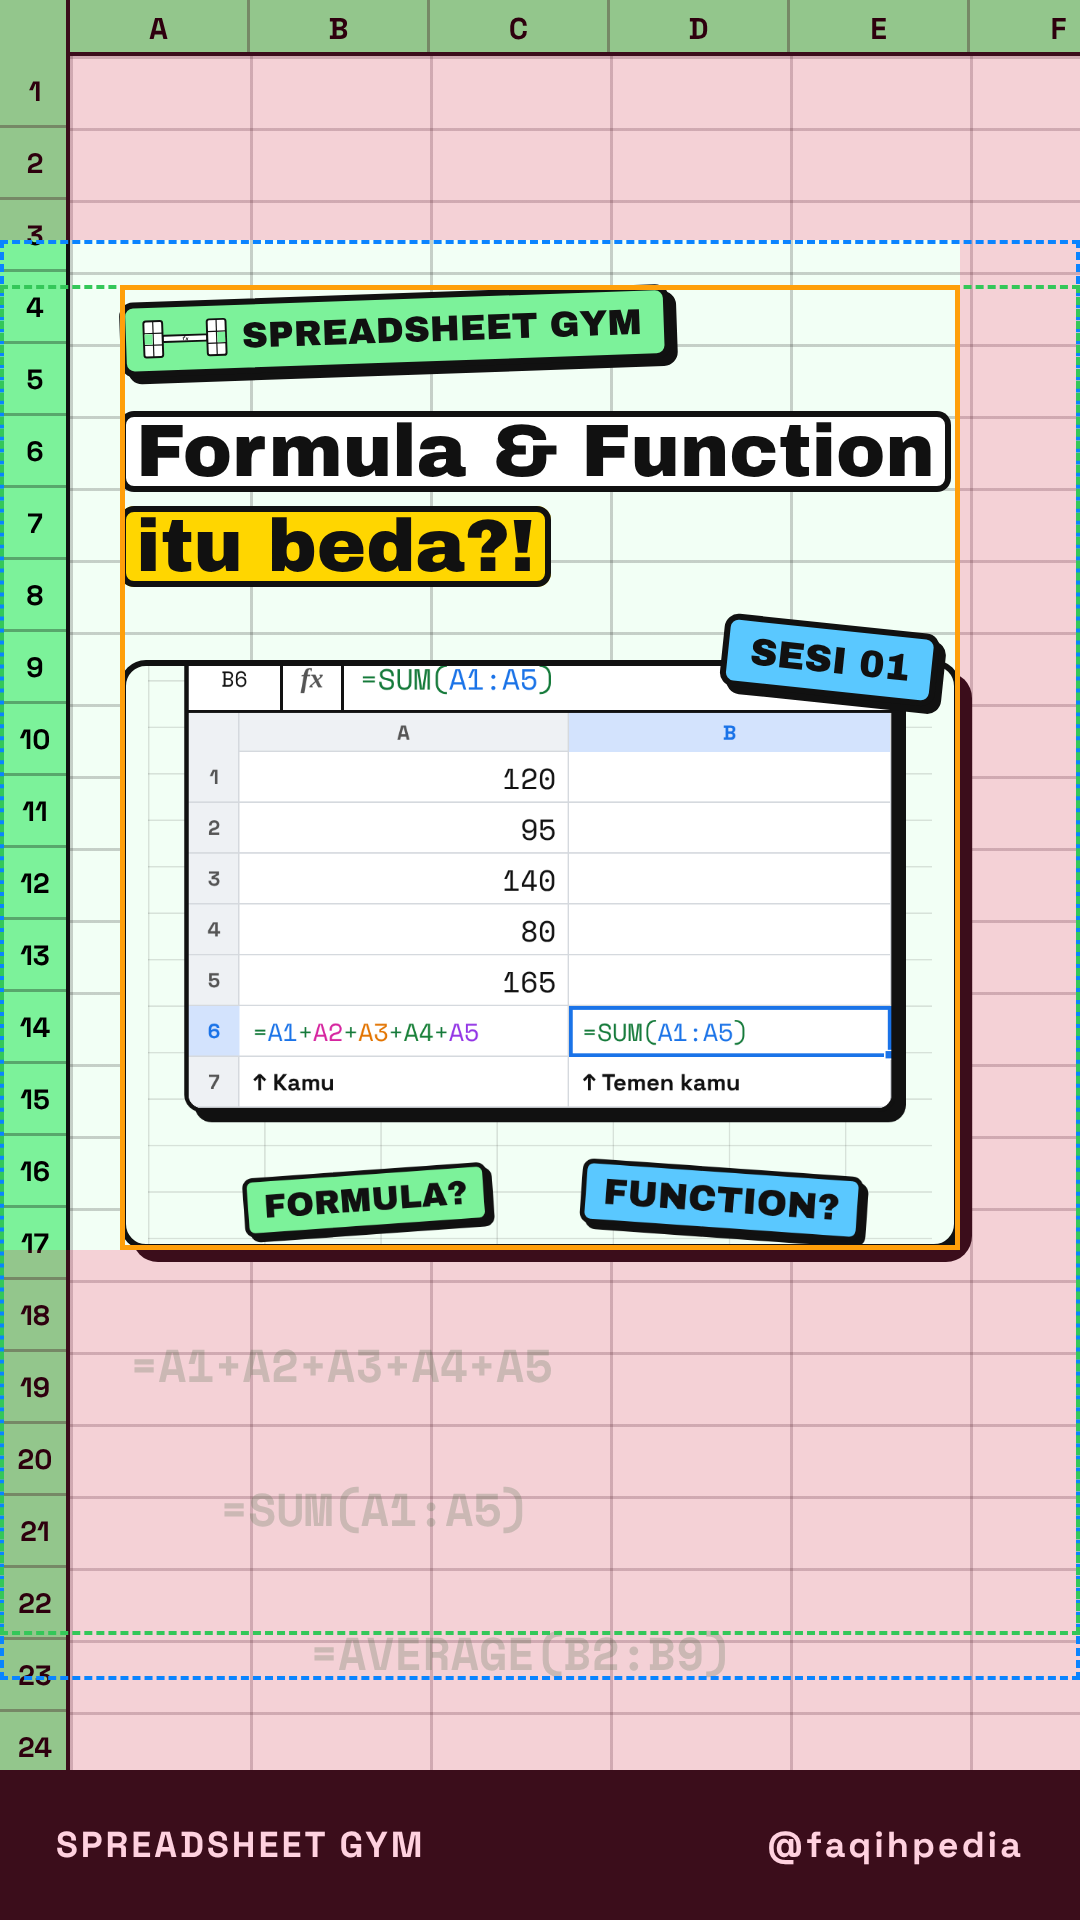
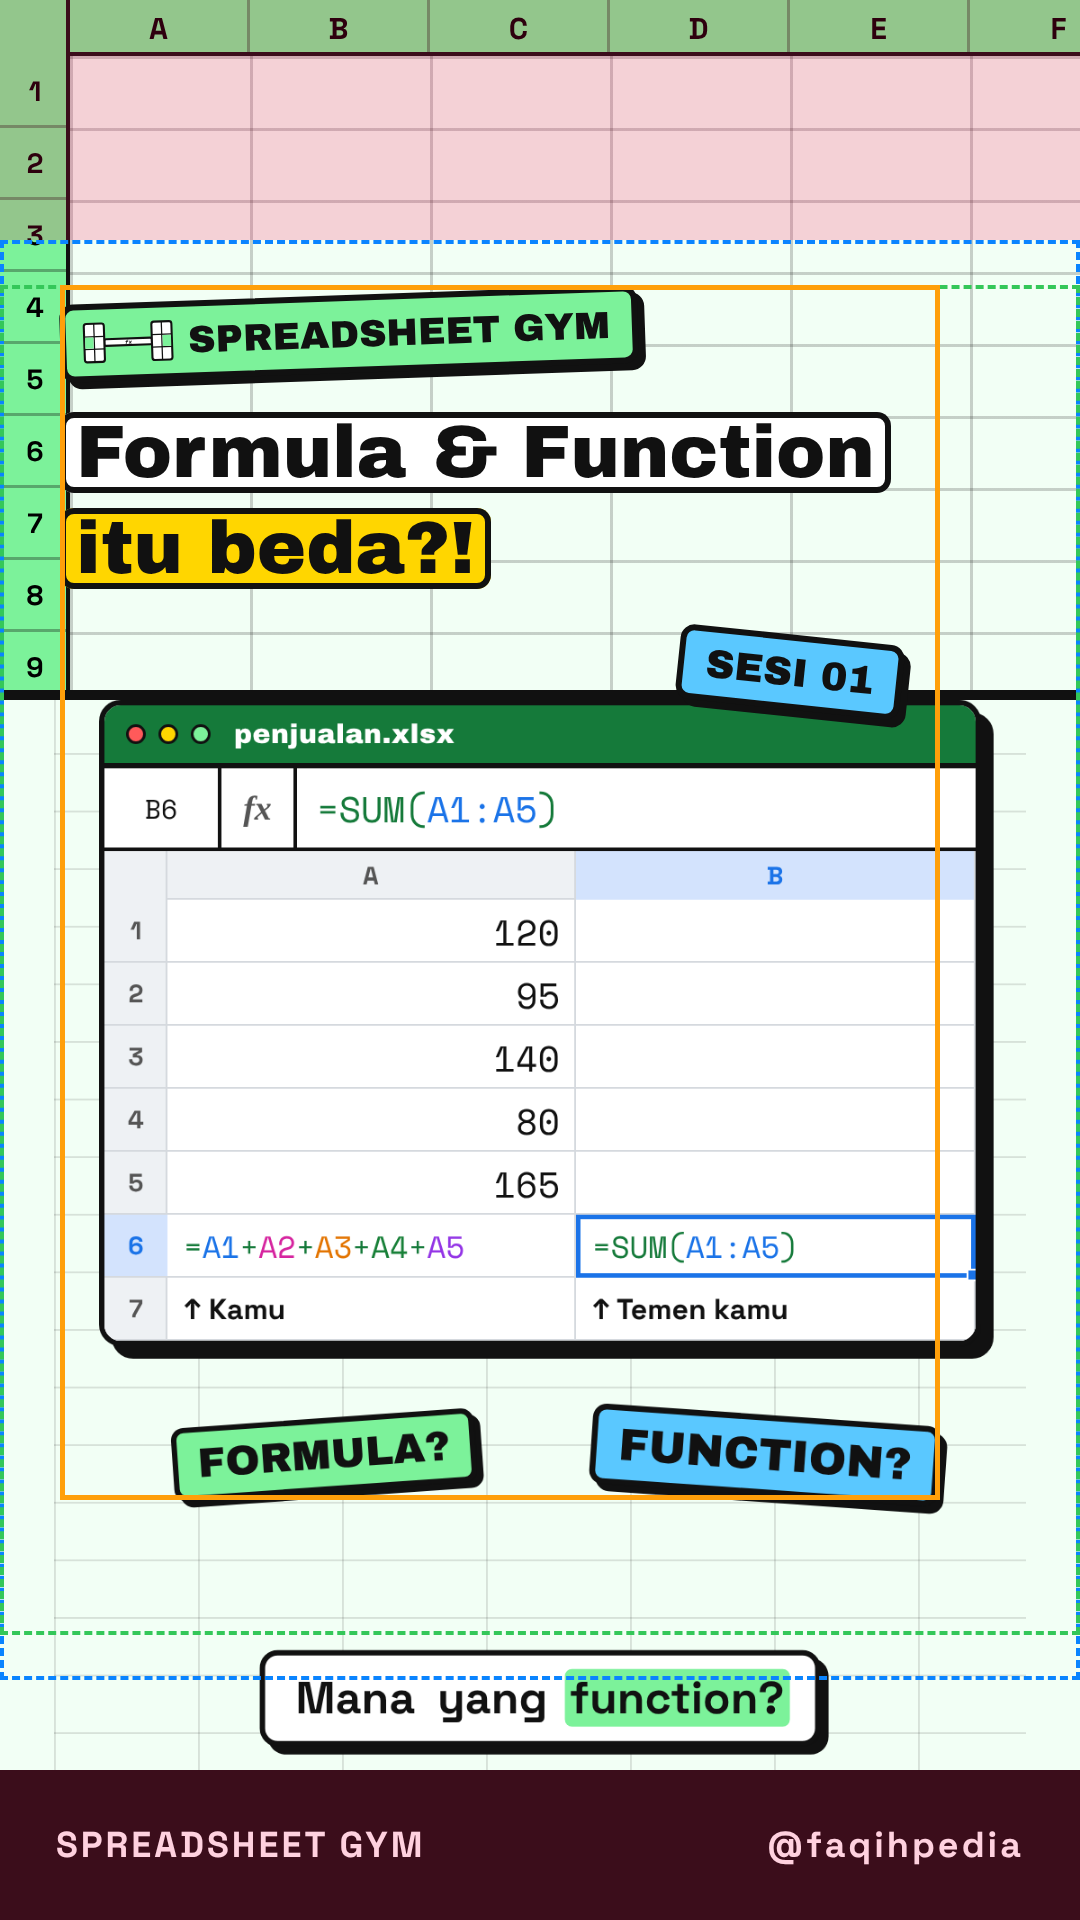
Spreadsheet Gym thumbnail: TRIMS cover geometry and SAFE box (60-940, 285-1500)
Claude-Session: https://claude.ai/code/session_018xRo3ZmD22FHxxpmWKTbyx

diff --git a/spreadsheet-gym-formula-vs-function/src/Thumbnail.tsx b/spreadsheet-gym-formula-vs-function/src/Thumbnail.tsx
@@ -2,33 +2,33 @@ import React from 'react';
 import { AbsoluteFill, Img, staticFile } from 'remotion';
 import { At, Box, Sticker } from './components';
 import { Barbell } from './scenes';
-import { BORDER, BODY, C, EPISODE_LABEL, HEAD, shadow } from './theme';
+import { BORDER, BODY, C, EPISODE_LABEL, HEAD } from './theme';
 
 /*
- * Cover for TikTok, IG Reels and the IG feed.
- *
- * Safe area (same as faqihpedia-askmaps/src/Thumbnail.tsx): label, title and
- * key visual stay inside the shared safe box x 120-960, y 285-1250. Outside it
- * there is only decoration, because TikTok's UI covers the top 240, the bottom
- * 670 and the right 120 px, and IG crops to 3:4 (grid) and 4:5 (feed).
- *
- * Inside the box it follows the TRIMS cover rules (trims-eps2-claude):
- * segment label + logo tilted -2°, a short title on white/yellow marks,
- * a tilted card on the edge of a real video frame, and the black series strip.
- * No face in this segment. The frame is the warm-up question (18.1 s: both
- * formulas, "Formula?" / "Function?"), so the cover never gives the answer away.
+ * Cover, same rules and geometry as the TRIMS cover (trims-eps2-claude/src/Thumbnail.tsx
+ * on claude/awesome-hawking-b9e871), which already respects the safe area:
+ *  - SAFE box x 60-940, y 285-1500 (trims-eps2-claude/src/theme.ts): label, title,
+ *    card and the key part of the photo panel stay inside it
+ *  - segment motif on top, segment label + logo tilted -2°, a short title (5 words)
+ *    on white/yellow marks, top 405
+ *  - a real frame of the video across the bottom half (panel from y 690 to the strip);
+ *    no face in this segment, so it's the warm-up question at 18.1 s (sheet with both
+ *    formulas + "Formula?" / "Function?"). The cover never gives the answer away.
+ *  - a tilted card on the panel edge, black series strip at the bottom
  */
-export const SAFE = { x: 120, y: 285, w: 840, h: 965 };
+export const SAFE = { left: 60, right: 940, top: 285, bottom: 1500 };
 
 const mark: React.CSSProperties = {
   background: C.white, boxShadow: `inset 0 0 0 6px ${C.ink}`, borderRadius: 14, padding: '0 16px',
   boxDecorationBreak: 'clone', WebkitBoxDecorationBreak: 'clone',
 };
 
-// key visual: the sheet + question stickers of the warm-up frame (source y 690-1475, x 40-1040)
-const PANEL = { x: SAFE.x, y: 660, w: SAFE.w, h: SAFE.y + SAFE.h - 660 };
-const SRC = { x: 40, y: 690, w: 1000, h: 785 };
-const K = Math.min((PANEL.w - 40) / SRC.w, (PANEL.h - 20) / SRC.h);
+const PHOTO_TOP = 690;
+const STRIP = 150;
+const K = 0.9; // frame scale
+// frame rows: sheet window starts ~585, question stickers end ~1470. Show from 581 so the
+// stickers end at 690 + (1470 - 581) * 0.9 = 1490, inside SAFE.bottom.
+const FRAME_Y = 581;
 
 /** spreadsheet motif: header row with column letters, row numbers, cell grid (decoration) */
 const SheetMotif: React.FC = () => {
@@ -53,7 +53,7 @@ const SheetMotif: React.FC = () => {
         </div>
       ))}
       <div style={{ position: 'absolute', left: 0, top: 0, bottom: 0, width: numW, background: C.green, borderRight: `4px solid ${C.ink}` }} />
-      {Array.from({ length: 26 }, (_, r) => (
+      {Array.from({ length: 9 }, (_, r) => (
         <div key={r} style={{ position: 'absolute', left: 0, top: headH + r * rowH, width: numW, height: rowH, display: 'flex', alignItems: 'center', justifyContent: 'center', fontFamily: BODY, fontWeight: 700, fontSize: 28, borderBottom: `3px solid ${C.ink}55` }}>
           {r + 1}
         </div>
@@ -62,15 +62,14 @@ const SheetMotif: React.FC = () => {
   );
 };
 
-/** overlays for checking the layout: platform UI (red), IG crops (blue 3:4, green 4:5), safe box (orange) */
+/** overlays for checking: platform UI (red), IG crops (blue 3:4, green 4:5), SAFE box (orange) */
 const Guides: React.FC = () => (
   <AbsoluteFill style={{ pointerEvents: 'none' }}>
     <div style={{ position: 'absolute', left: 0, right: 0, top: 0, height: 240, background: 'rgba(255,0,80,0.18)' }} />
-    <div style={{ position: 'absolute', left: 0, right: 0, bottom: 0, height: 670, background: 'rgba(255,0,80,0.18)' }} />
-    <div style={{ position: 'absolute', right: 0, top: 240, bottom: 670, width: 120, background: 'rgba(255,0,80,0.18)' }} />
+    <div style={{ position: 'absolute', left: 0, right: 0, bottom: 0, height: STRIP, background: 'rgba(255,0,80,0.18)' }} />
     <div style={{ position: 'absolute', left: 0, right: 0, top: 240, height: 1440, border: '4px dashed #0A84FF', boxSizing: 'border-box' }} />
     <div style={{ position: 'absolute', left: 0, right: 0, top: 285, height: 1350, border: '4px dashed #34C759', boxSizing: 'border-box' }} />
-    <div style={{ position: 'absolute', left: SAFE.x, top: SAFE.y, width: SAFE.w, height: SAFE.h, border: '5px solid #FF9F0A', boxSizing: 'border-box' }} />
+    <div style={{ position: 'absolute', left: SAFE.left, top: SAFE.top, width: SAFE.right - SAFE.left, height: SAFE.bottom - SAFE.top, border: '5px solid #FF9F0A', boxSizing: 'border-box' }} />
   </AbsoluteFill>
 );
 
@@ -78,44 +77,34 @@ export const Thumbnail: React.FC<{ guides?: boolean }> = ({ guides = false }) =>
   <AbsoluteFill style={{ background: C.bg, overflow: 'hidden' }}>
     <SheetMotif />
 
-    {/* decoration below the safe box: faded formulas in the grid */}
-    {[['=A1+A2+A3+A4+A5', 1330], ['=SUM(A1:A5)', 1474], ['=AVERAGE(B2:B9)', 1618]].map(([fx, y], i) => (
-      <div key={i} style={{ position: 'absolute', left: 130 + i * 90, top: y as number, fontFamily: '"Space Mono", monospace', fontWeight: 700, fontSize: 46, color: C.formula, opacity: 0.22 }}>
-        {fx}
-      </div>
-    ))}
+    {/* real video frame, bleeding off the bottom */}
+    <div style={{ position: 'absolute', left: 0, right: 0, top: PHOTO_TOP, bottom: 0, overflow: 'hidden', borderTop: `${BORDER + 4}px solid ${C.ink}`, background: C.bg }}>
+      <Img src={staticFile('thumb-frame.png')} style={{ position: 'absolute', left: (1080 - 1080 * K) / 2, top: -FRAME_Y * K, width: 1080 * K, height: 1920 * K }} />
+    </div>
 
-    {/* segment label */}
-    <div style={{ position: 'absolute', left: SAFE.x, top: SAFE.y + 18, transform: 'rotate(-2deg)', transformOrigin: 'left center' }}>
-      <Box bg={C.green} pad="8px 22px 8px 14px" radius={14} sh={7} style={{ display: 'flex', alignItems: 'center', gap: 12, fontFamily: HEAD, fontSize: 36, whiteSpace: 'nowrap' }}>
-        <Barbell w={90} />
+    {/* segment label, top-left */}
+    <div style={{ position: 'absolute', left: SAFE.left, top: SAFE.top + 10, transform: 'rotate(-2deg)' }}>
+      <Box bg={C.green} pad="8px 22px 8px 14px" radius={14} sh={7} style={{ display: 'flex', alignItems: 'center', gap: 12, fontFamily: HEAD, fontSize: 38, whiteSpace: 'nowrap' }}>
+        <Barbell w={96} />
         SPREADSHEET GYM
       </Box>
     </div>
 
-    {/* title: 5 words, fits the 840 px box */}
-    <div style={{ position: 'absolute', left: SAFE.x, top: 405, width: SAFE.w, fontFamily: HEAD, fontSize: 74, lineHeight: 1.28, color: C.ink, whiteSpace: 'nowrap' }}>
+    {/* title: 5 words, right edge inside SAFE.right */}
+    <div style={{ position: 'absolute', left: SAFE.left, top: 405, fontFamily: HEAD, fontSize: 74, lineHeight: 1.3, color: C.ink, whiteSpace: 'nowrap' }}>
       <span style={mark}>Formula &amp; Function</span>
       <br />
       <span style={{ ...mark, background: C.yellow }}>itu beda?!</span>
     </div>
 
-    {/* key visual: real frame of the warm-up question */}
-    <div style={{ position: 'absolute', left: PANEL.x, top: PANEL.y, width: PANEL.w, height: PANEL.h, overflow: 'hidden', background: C.bg, border: `${BORDER}px solid ${C.ink}`, borderRadius: 26, boxShadow: shadow(12), boxSizing: 'border-box' }}>
-      <Img
-        src={staticFile('thumb-frame.png')}
-        style={{ position: 'absolute', left: (PANEL.w - SRC.w * K) / 2 - SRC.x * K - BORDER, top: 10 - SRC.y * K - BORDER, width: 1080 * K, height: 1920 * K }}
-      />
-    </div>
-
     {/* card on the panel edge */}
-    <At x={830} y={PANEL.y} r={6}>
-      <Sticker bg={C.blue} size={38}>{EPISODE_LABEL}</Sticker>
+    <At x={790} y={672} r={6}>
+      <Sticker bg={C.blue} size={40}>{EPISODE_LABEL}</Sticker>
     </At>
 
-    {/* series strip (decoration, under the platform UI) */}
+    {/* series strip */}
     <div style={{
-      position: 'absolute', left: 0, right: 0, bottom: 0, height: 150, background: C.ink, color: C.white,
+      position: 'absolute', left: 0, right: 0, bottom: 0, height: STRIP, background: C.ink, color: C.white,
       display: 'flex', alignItems: 'center', justifyContent: 'space-between', padding: '0 56px',
       fontFamily: BODY, fontWeight: 700, fontSize: 36, letterSpacing: 3,
     }}>

diff --git a/README.md b/README.md
@@ -113,6 +113,6 @@ python3 scripts/whistle.py public/sfx/whistle.wav                   # optional: 
 npm run render -- --browser-executable=<chrome-headless-shell>
 ```
 
-The cover is `thumbnail.png` (the `Thumbnail` still in `src/Thumbnail.tsx`), one file for TikTok, IG Reels and the IG feed. It follows the shared safe area from `faqihpedia-askmaps`: label, title and key visual stay inside x 120–960, y 285–1250, and only decoration sits outside it. `thumbnail-safe-area-check.png` shows the overlays. Inside the box it follows the TRIMS cover rules (`trims-eps2-claude/src/Thumbnail.tsx`): segment label and logo, a 5-word title, a tilted card on the edge of a real video frame, and the black series strip. This segment has no face, so the frame is the warm-up question at 18.1 s (`public/thumb-frame.png`). The cover must not give away the answer. Render with `npx remotion still Thumbnail thumbnail.png` and `npx remotion still ThumbnailSafeCheck thumbnail-safe-area-check.png`.
+The cover is `thumbnail.png` (the `Thumbnail` still in `src/Thumbnail.tsx`). It uses the same rules and geometry as the TRIMS cover (`trims-eps2-claude/src/Thumbnail.tsx`), which already respects the safe area: the SAFE box is x 60–940, y 285–1500. It has the segment motif and label on top, a 5-word title, a tilted card on the panel edge, a real video frame from y 690 down to the black series strip, and the strip itself. This segment has no face, so the frame is the warm-up question at 18.1 s (`public/thumb-frame.png`), placed so the question stickers end inside y 1500. The cover must not give away the answer. `thumbnail-safe-area-check.png` shows the SAFE box and the platform overlays. Render with `npx remotion still Thumbnail thumbnail.png` and `npx remotion still ThumbnailSafeCheck thumbnail-safe-area-check.png`.
 
 Scene timing is cued to words in the VO (`cue(part, word)` in `src/theme.ts`), so the edit follows a regenerated VO without manual retiming. The episode number, weight and main formula are `EPISODE` and `MAIN_FORMULA` in `src/theme.ts`.
